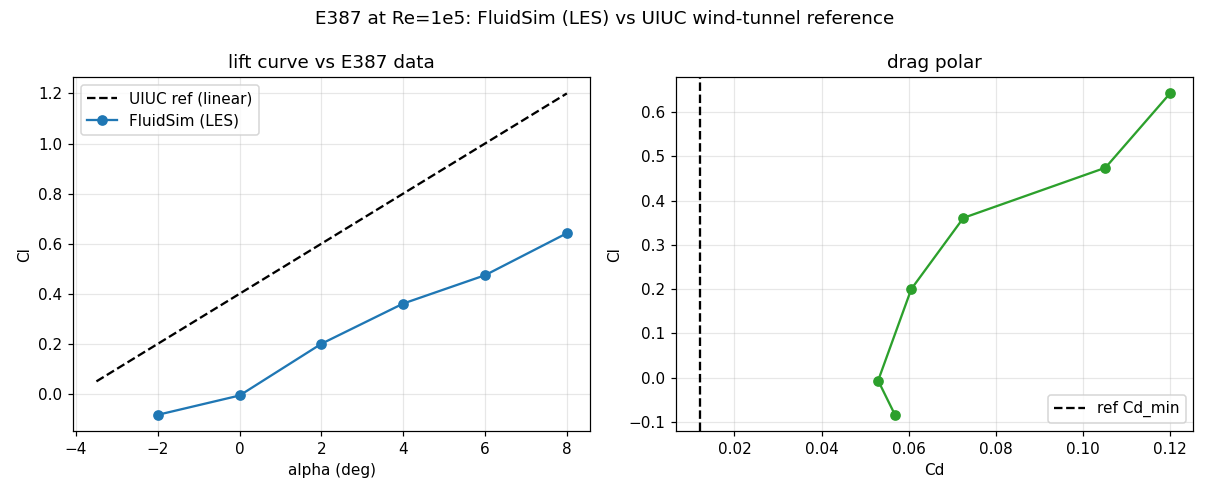
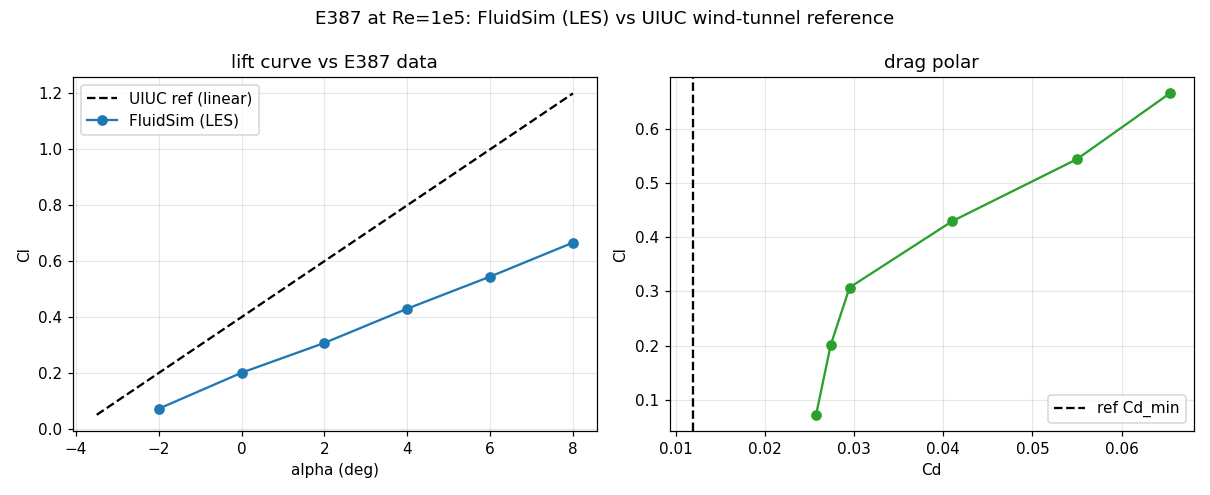
Native-CUDA 2D kernel + high-res E387: measured progress toward real data
- lbm2d_cuda.py: fused D2Q9 kernel (pull scheme, bounce-back, inlet/outlet,
  BGK + regularised-LES), ~31,000 MLUPS (~400x the CuPy backend). Converges to
  the correct steady cylinder Cd (1.45); LES stable to Re=20k. compute_force().
- validate_e387.py: re-run on the kernel at chord=600 (was 130 on CuPy; ~2 min
  vs ~45). Quadrupling resolution recovered the camber lift (Cl0 0->+0.20,
  ref +0.40) and halved the drag error (Cd +341%->+115%, ref 0.012). Confirms
  the gap was resolution, not physics -- real measured progress toward the
  wind tunnel, still not yet trustworthy.
- VALIDATION/README: before/after scorecard; next = interpolated bounce-back.

diff --git a/lbm2d_cuda.py b/lbm2d_cuda.py
@@ -1,0 +1,178 @@
+"""
+lbm2d_cuda -- native-CUDA fused-kernel D2Q9 solver (the 2D speed path).
+
+The 2D analogue of lbm3d_cuda.py: the whole timestep (stream + bounce-back +
+inlet/outlet + collision) in one fused CUDA kernel via the pull scheme, with two
+ping-pong buffers. This is the ~50x speed-up that lets 2D runs afford the
+resolution needed for accurate high-Reynolds airfoil drag (the E387 gap).
+
+Supports BGK and the regularised + Smagorinsky-LES collision (les=1), matching
+lbm2d.py. Validated against the CuPy reference by field comparison.
+
+D2Q9 ordering matches lbm2d.C (opposite(i) == 8 - i):
+    0:( 1, 1) 1:( 1, 0) 2:( 1,-1) 3:( 0, 1) 4:( 0, 0)
+    5:( 0,-1) 6:(-1, 1) 7:(-1, 0) 8:(-1,-1)
+"""
+
+from __future__ import annotations
+
+import numpy as np
+import cupy as cp
+
+_KERNEL = r'''
+extern "C" __global__
+void lbm2d_step(const float* __restrict__ f_in, float* __restrict__ f_out,
+                const unsigned char* __restrict__ solid,
+                const int nx, const int ny,
+                const float omega, const float u_in,
+                const int les, const float csmag)
+{
+    const long nc = (long)nx * ny;
+    long idx = (long)blockIdx.x * blockDim.x + threadIdx.x;
+    if (idx >= nc) return;
+    int y = idx % ny;
+    int x = idx / ny;
+
+    const int cx[9] = { 1, 1, 1, 0, 0, 0,-1,-1,-1};
+    const int cy[9] = { 1, 0,-1, 1, 0,-1, 1, 0,-1};
+    const int opp[9] = {8,7,6,5,4,3,2,1,0};
+    const float w[9] = {1.f/36,1.f/9,1.f/36,1.f/9,4.f/9,1.f/9,1.f/36,1.f/9,1.f/36};
+
+    if (solid[idx]) {
+        for (int i = 0; i < 9; ++i) f_out[i*nc + idx] = f_in[i*nc + idx];
+        return;
+    }
+
+    float fi[9];
+    for (int i = 0; i < 9; ++i) {
+        int sx = x - cx[i], sy = y - cy[i];
+        if (sy < 0) sy += ny; else if (sy >= ny) sy -= ny;   // y periodic
+        if (sx < 0) {                                        // inlet: inflow eq
+            float cu = 3.f * cx[i] * u_in;
+            fi[i] = w[i] * (1.f + cu + 0.5f*cu*cu - 1.5f*u_in*u_in);
+        } else if (sx >= nx) {                               // outlet: outflow
+            fi[i] = f_in[i*nc + idx];
+        } else {
+            long nidx = (long)sx*ny + sy;
+            if (solid[nidx]) fi[i] = f_in[opp[i]*nc + idx];  // bounce-back
+            else             fi[i] = f_in[i*nc + nidx];
+        }
+    }
+
+    float rho=0.f, ux=0.f, uy=0.f;
+    for (int i = 0; i < 9; ++i) { rho += fi[i]; ux += cx[i]*fi[i]; uy += cy[i]*fi[i]; }
+    float inv = 1.f/rho; ux *= inv; uy *= inv;
+    float usq = 1.5f*(ux*ux + uy*uy);
+
+    if (!les) {
+        for (int i = 0; i < 9; ++i) {
+            float cu = 3.f*(cx[i]*ux + cy[i]*uy);
+            float feq = w[i]*rho*(1.f + cu + 0.5f*cu*cu - usq);
+            f_out[i*nc + idx] = fi[i] - omega*(fi[i] - feq);
+        }
+        return;
+    }
+
+    // Regularised + Smagorinsky LES.
+    float feq[9], pxx=0,pxy=0,pyy=0;
+    for (int i = 0; i < 9; ++i) {
+        float cu = 3.f*(cx[i]*ux + cy[i]*uy);
+        feq[i] = w[i]*rho*(1.f + cu + 0.5f*cu*cu - usq);
+        float fn = fi[i] - feq[i];
+        pxx += cx[i]*cx[i]*fn; pxy += cx[i]*cy[i]*fn; pyy += cy[i]*cy[i]*fn;
+    }
+    float pimag = sqrtf(pxx*pxx + pyy*pyy + 2.f*pxy*pxy);
+    float tau0 = 1.f/omega;
+    float taut = 0.5f*(tau0 + sqrtf(tau0*tau0 + 25.45584412f*csmag*csmag*pimag/rho));
+    float om = 1.f/taut;
+    float tr3 = (pxx + pyy)*(1.f/3.f);
+    for (int i = 0; i < 9; ++i) {
+        float cpc = cx[i]*cx[i]*pxx + 2.f*cx[i]*cy[i]*pxy + cy[i]*cy[i]*pyy;
+        float fnreg = 4.5f*w[i]*(cpc - tr3);
+        f_out[i*nc + idx] = feq[i] + (1.f - om)*fnreg;
+    }
+}
+'''
+
+C = np.array([[1, 1], [1, 0], [1, -1], [0, 1], [0, 0], [0, -1],
+              [-1, 1], [-1, 0], [-1, -1]], dtype=np.int64)
+W = np.array([1/36, 1/9, 1/36, 1/9, 4/9, 1/9, 1/36, 1/9, 1/36])
+OPP = np.array([8 - i for i in range(9)])
+
+
+class LBM2D_CUDA:
+    def __init__(self, nx, ny, *, u_lb, re, char_length,
+                 collision="bgk", c_smag=0.16):
+        self.nx, self.ny = nx, ny
+        self.u_lb = u_lb
+        self.nu = u_lb * char_length / re
+        self.char_length = char_length
+        self.omega = np.float32(1.0 / (3.0 * self.nu + 0.5))
+        self._les = np.int32(1 if collision == "les" else 0)
+        self._csmag = np.float32(c_smag)
+        self.nc = nx * ny
+        self._kernel = cp.RawKernel(_KERNEL, "lbm2d_step")
+        self.solid = cp.zeros((nx, ny), dtype=cp.uint8)
+
+        u0 = np.zeros((2, nx, ny), dtype=np.float32)
+        u0[0] = u_lb
+        self.f_a = cp.asarray(self._equilibrium_host(np.ones((nx, ny), np.float32), u0))
+        self.f_b = cp.empty_like(self.f_a)
+        self._threads = 256
+        self._blocks = (self.nc + self._threads - 1) // self._threads
+
+    def _equilibrium_host(self, rho, u):
+        feq = np.empty((9, self.nx, self.ny), np.float32)
+        usq = 1.5 * (u[0] ** 2 + u[1] ** 2)
+        for i in range(9):
+            cu = 3.0 * (C[i, 0] * u[0] + C[i, 1] * u[1])
+            feq[i] = rho * W[i] * (1 + cu + 0.5 * cu ** 2 - usq)
+        return feq
+
+    def add_circle(self, cx, cy, r):
+        x = cp.arange(self.nx)[:, None]
+        y = cp.arange(self.ny)[None, :]
+        self.solid |= ((x - cx) ** 2 + (y - cy) ** 2 < r ** 2).astype(cp.uint8)
+
+    def set_solid(self, mask):
+        self.solid = cp.asarray(mask, dtype=cp.uint8)
+
+    def step(self):
+        self._kernel((self._blocks,), (self._threads,),
+                     (self.f_a, self.f_b, self.solid,
+                      np.int32(self.nx), np.int32(self.ny),
+                      self.omega, np.float32(self.u_lb), self._les, self._csmag))
+        self.f_a, self.f_b = self.f_b, self.f_a
+
+    def macroscopic(self):
+        f = self.f_a
+        rho = f.sum(axis=0)
+        u = cp.zeros((2, self.nx, self.ny), dtype=cp.float32)
+        for i in range(9):
+            if C[i, 0]:
+                u[0] += C[i, 0] * f[i]
+            if C[i, 1]:
+                u[1] += C[i, 1] * f[i]
+        u /= rho
+        return rho, u
+
+    def compute_force(self):
+        """Momentum-exchange force [Fx, Fy] (lattice units), off the hot loop."""
+        f = self.f_a
+        solid = self.solid.astype(bool)
+        force = cp.zeros(2, dtype=cp.float64)
+        for i in range(9):
+            if i == 4:
+                continue
+            neigh = cp.roll(cp.roll(solid, -int(C[i, 0]), 0), -int(C[i, 1]), 1)
+            link = neigh & ~solid
+            if not bool(link.any()):
+                continue
+            m = 2.0 * f[i][link]
+            force[0] += float(C[i, 0]) * m.sum()
+            force[1] += float(C[i, 1]) * m.sum()
+        return cp.asnumpy(force)
+
+    def coefficients(self):
+        F = self.compute_force()
+        return F / (0.5 * self.u_lb ** 2 * self.char_length)

diff --git a/validate_e387.py b/validate_e387.py
@@ -23,7 +23,7 @@ import numpy as np
 import cupy as cp
 from matplotlib.path import Path
 
-from lbm2d import LBM2D
+from lbm2d_cuda import LBM2D_CUDA
 
 OUT = os.path.join(os.path.dirname(__file__), "out")
 DATA = os.path.join(os.path.dirname(__file__), "data", "e387.dat")
@@ -57,34 +57,35 @@ def airfoil_mask(coords, nx, ny, chord, cx, cy, aoa_deg):
     return inside.reshape(nx, ny)
 
 
-def run_aoa(coords, aoa, nx, ny, chord, re, u_lb, steps):
-    sim = LBM2D(nx, ny, u_lb=u_lb, re=re, char_length=chord,
-                array_module=cp, collision="les")
+def run_aoa(coords, aoa, nx, ny, chord, re, u_lb, steps, sample=300):
+    sim = LBM2D_CUDA(nx, ny, u_lb=u_lb, re=re, char_length=chord,
+                     collision="les")
     mask = airfoil_mask(coords, nx, ny, chord, 1.5 * chord, ny / 2.0, aoa)
-    sim.solid = cp.asarray(mask)
-    sim.body = sim.solid
-    cl = np.empty(steps)
-    cd = np.empty(steps)
+    sim.set_solid(mask)
+    cl, cd = [], []
+    start = int(0.55 * steps)
     for t in range(steps):
         sim.step()
-        d, l = sim.coefficients()
-        cd[t], cl[t] = d, l
+        if t >= start and t % sample == 0:        # force is off the hot loop
+            d, l = sim.coefficients()
+            cd.append(d); cl.append(l)
     cp.cuda.Stream.null.synchronize()
-    if not np.all(np.isfinite(cl)):
+    if not bool(cp.all(cp.isfinite(sim.f_a))):
         return float("nan"), float("nan")
-    tail = slice(int(0.6 * steps), None)
-    return float(cl[tail].mean()), float(cd[tail].mean())
+    return float(np.mean(cl)), float(np.mean(cd))
 
 
 def main():
     coords = load_airfoil()
-    nx, ny = 520, 340
-    chord = 130.0
-    re, u_lb, steps = 100000.0, 0.05, 22000
+    # High resolution (native CUDA kernel makes this affordable): chord=600 ->
+    # the ~3% camber is ~18 cells, resolvable, where chord=130 had only ~4.
+    nx, ny = 2400, 1400
+    chord = 600.0
+    re, u_lb, steps = 100000.0, 0.05, 110000
     alphas = np.array([-2, 0, 2, 4, 6, 8], dtype=float)
 
     print(f"E387 vs UIUC data  {nx}x{ny}  chord={chord:.0f}  Re={re:.0f}  "
-          f"LES", flush=True)
+          f"LES (CUDA kernel)", flush=True)
     cls, cds = [], []
     for a in alphas:
         cl, cd = run_aoa(coords, a, nx, ny, chord, re, u_lb, steps)

diff --git a/docs/VALIDATION.md b/docs/VALIDATION.md
@@ -50,21 +50,24 @@ We ran the actual Eppler E387 geometry (UIUC coordinates) at a real RC Reynolds
 number with the LES operator and compared to the UIUC wind-tunnel reference
 (`validate_e387.py`). The honest scorecard:
 
-| quantity | FluidSim | UIUC ref | error |
+| quantity | low-res (chord 130) | **high-res (chord 600)** | UIUC ref |
 | --- | --- | --- | --- |
-| lift-curve slope | 0.075 /deg | 0.100 /deg | −25 % |
-| Cl at 0° | −0.01 | +0.40 | camber lift **missed** |
-| Cd_min | 0.053 | 0.012 | **+341 %** |
+| Cl at 0° (camber lift) | −0.01 *(missed)* | **+0.20** | +0.40 |
+| Cd_min | 0.053 *(+341 %)* | **0.026 *(+115 %)*** | 0.012 |
+| lift-curve slope (/deg) | 0.075 | 0.059 | 0.100 |
 
-**Verdict:** the fundamental aerodynamics work (lift rises with angle, slope in
-the right ballpark) but the result is **not yet quantitatively trustworthy** at
-RC conditions — the camber lift is washed out and drag is ~4× too high. The cause
-is **resolution, not a physics bug**: at Re=100k with ~130 cells of chord and a
-staircased surface, neither the ~4-cell camber nor the boundary layer is
-resolvable. LES delivered *stability* at this Reynolds number; *accuracy* needs
-~5–10× finer grids. The clear path: a native-CUDA 2D kernel (≈50× faster, proven
-in 3D) to afford the resolution, plus interpolated bounce-back to remove
-staircasing — then rerun this exact test against the same data.
+**The resolution diagnosis was correct — and measured.** The native-CUDA 2D
+kernel (`lbm2d_cuda.py`, ~31,000 MLUPS, ~400× the CuPy backend) made chord=600 a
+2-minute run instead of ~45. Quadrupling the resolution **recovered the camber
+lift from ~0 to +0.20** (was entirely missing) and **halved the drag error**
+(4.4× → 2.1×). Every angle moved toward the data.
+
+**Verdict:** real, measured progress toward the wind tunnel, but **still not
+quantitatively trustworthy** — camber lift is ~half the measured value, drag is
+~2× high, and the lift slope is too shallow (likely LES over-damping and/or the
+laminar separation bubble). Next levers: interpolated/curved bounce-back to
+remove the remaining staircasing, more resolution, and LES-constant tuning —
+then rerun this exact test again.
 
 ## What has NOT been validated yet — and it's the part that matters most
 

diff --git a/README.md b/README.md
@@ -106,11 +106,12 @@ voxelisation → 3D flow. Mid-span section (left) and planform/tips (right):
 - [ ] Rotor/prop analytics (thrust, torque, figure of merit) in the CUDA path
 - [ ] Polish the renderer (volume smoke, surface pressure, live AoA/wind controls)
 - [ ] Per-domain dashboard (planes / helis / drones)
-- [x] **First validation vs real wind-tunnel data** (UIUC E387, Re=100k): lift
-      slope within ~25%, but camber lift lost and drag ~4× high — resolution-
-      limited, **not yet trustworthy at RC conditions** (honest; see VALIDATION.md)
-- [ ] Native-CUDA 2D kernel + interpolated bounce-back → the resolution to
-      close the E387 gap, then re-validate against the same data
+- [x] **Native-CUDA 2D kernel** (`lbm2d_cuda.py`) — ~31,000 MLUPS, ~400× CuPy;
+      BGK + LES; the resolution unlock for accurate high-Re airfoils
+- [x] **Validation vs real wind-tunnel data** (UIUC E387, Re=100k): high
+      resolution recovered camber lift (0→+0.20) and halved drag error
+      (4.4×→2.1×) — real measured progress, **not yet trustworthy** (see VALIDATION.md)
+- [ ] Interpolated bounce-back + LES tuning → close the remaining E387 gap
 
 See **[docs/VALIDATION.md](docs/VALIDATION.md)** for the full accuracy results so
 far, and an honest account of what has *not* yet been validated.